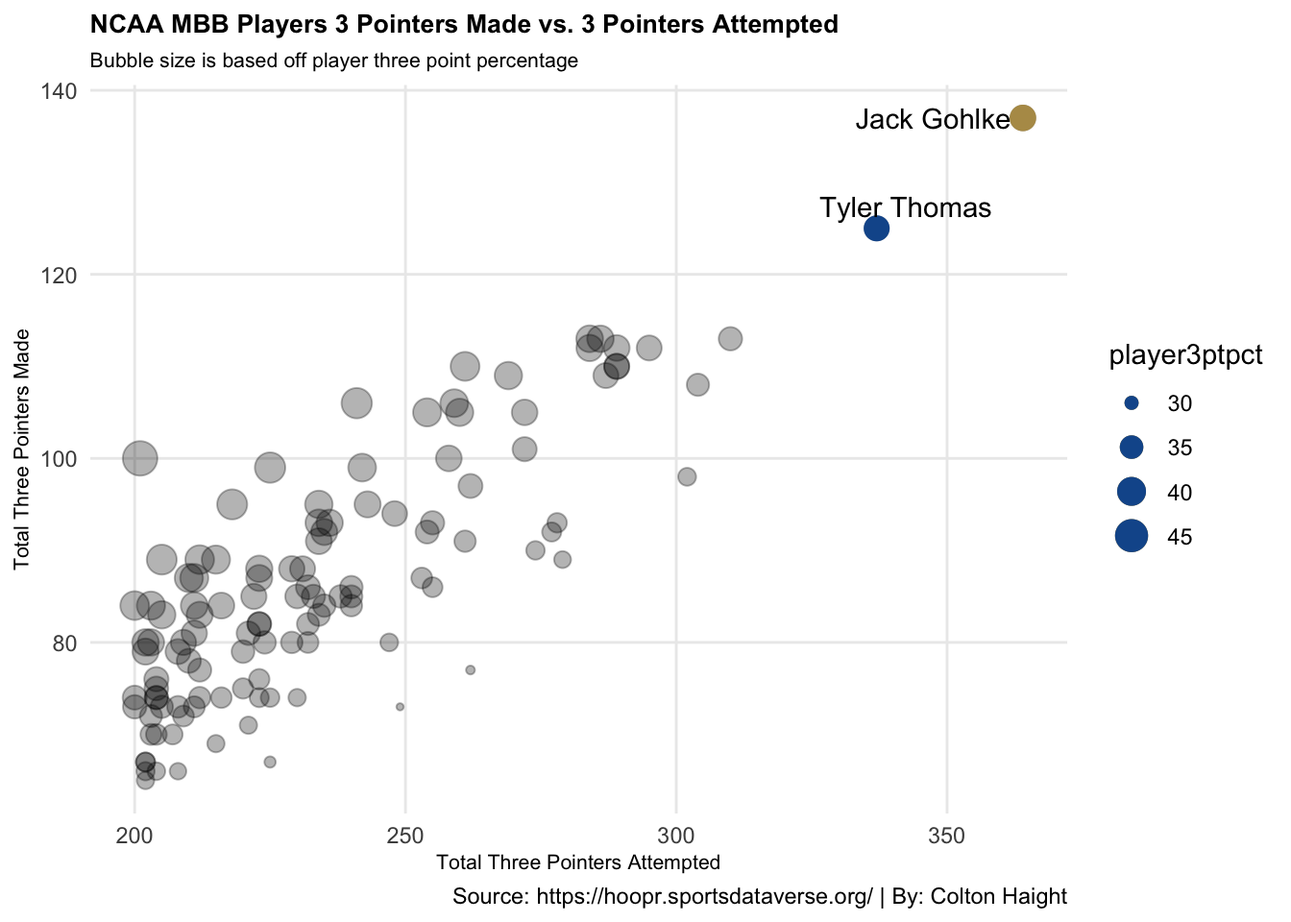
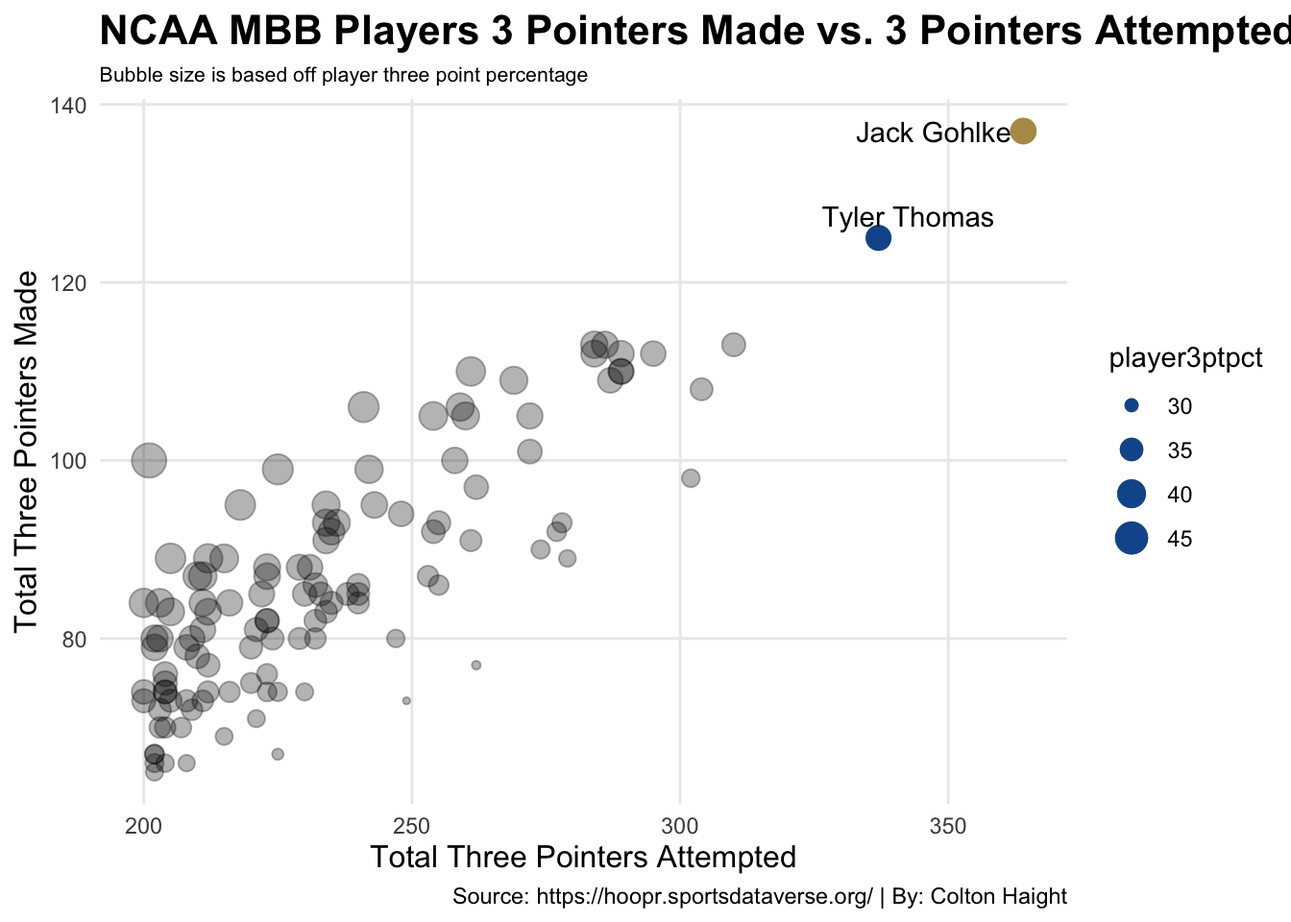
changed index

diff --git a/posts/best-3pt-shooter-mcbb-2024/index.html b/posts/best-3pt-shooter-mcbb-2024/index.html
@@ -194,65 +194,44 @@ pre > code.sourceCode > span > a:first-child::before { text-decoration: underlin
 <details class="code-fold">
 <summary>Code</summary>
 <div class="sourceCode cell-code" id="cb1"><pre class="sourceCode r code-with-copy"><code class="sourceCode r"><span id="cb1-1"><a href="#cb1-1" aria-hidden="true" tabindex="-1"></a><span class="fu">library</span>(hoopR)</span>
-<span id="cb1-2"><a href="#cb1-2" aria-hidden="true" tabindex="-1"></a><span class="fu">library</span>(tidyverse)</span></code><button title="Copy to Clipboard" class="code-copy-button"><i class="bi"></i></button></pre></div>
-</details>
-<div class="cell-output cell-output-stderr">
-<pre><code>── Attaching core tidyverse packages ──────────────────────── tidyverse 2.0.0 ──
-✔ dplyr     1.1.4     ✔ readr     2.1.5
-✔ forcats   1.0.0     ✔ stringr   1.5.1
-✔ ggplot2   3.5.1     ✔ tibble    3.2.1
-✔ lubridate 1.9.3     ✔ tidyr     1.3.1
-✔ purrr     1.0.2     
-── Conflicts ────────────────────────────────────────── tidyverse_conflicts() ──
-✖ dplyr::filter() masks stats::filter()
-✖ dplyr::lag()    masks stats::lag()
-ℹ Use the conflicted package (&lt;http://conflicted.r-lib.org/&gt;) to force all conflicts to become errors</code></pre>
-</div>
-<details class="code-fold">
-<summary>Code</summary>
-<div class="sourceCode cell-code" id="cb3"><pre class="sourceCode r code-with-copy"><code class="sourceCode r"><span id="cb3-1"><a href="#cb3-1" aria-hidden="true" tabindex="-1"></a><span class="fu">library</span>(ggrepel)</span>
-<span id="cb3-2"><a href="#cb3-2" aria-hidden="true" tabindex="-1"></a></span>
-<span id="cb3-3"><a href="#cb3-3" aria-hidden="true" tabindex="-1"></a>mbb_player_stats <span class="ot">&lt;-</span> <span class="fu">load_mbb_player_box</span>(<span class="at">seasons =</span> <span class="dv">2024</span>)</span>
-<span id="cb3-4"><a href="#cb3-4" aria-hidden="true" tabindex="-1"></a></span>
-<span id="cb3-5"><a href="#cb3-5" aria-hidden="true" tabindex="-1"></a>mbb3pt <span class="ot">&lt;-</span> mbb_player_stats<span class="sc">|&gt;</span></span>
-<span id="cb3-6"><a href="#cb3-6" aria-hidden="true" tabindex="-1"></a>  <span class="fu">group_by</span>(athlete_display_name, team_short_display_name)<span class="sc">|&gt;</span></span>
-<span id="cb3-7"><a href="#cb3-7" aria-hidden="true" tabindex="-1"></a>  <span class="fu">summarize</span>(</span>
-<span id="cb3-8"><a href="#cb3-8" aria-hidden="true" tabindex="-1"></a>    <span class="at">total3ptmade =</span> <span class="fu">sum</span>(three_point_field_goals_made),</span>
-<span id="cb3-9"><a href="#cb3-9" aria-hidden="true" tabindex="-1"></a>    <span class="at">total3ptattempted =</span> <span class="fu">sum</span>(three_point_field_goals_attempted),</span>
-<span id="cb3-10"><a href="#cb3-10" aria-hidden="true" tabindex="-1"></a>    <span class="at">totalpts =</span> <span class="fu">sum</span>(points)</span>
-<span id="cb3-11"><a href="#cb3-11" aria-hidden="true" tabindex="-1"></a>  )<span class="sc">|&gt;</span></span>
-<span id="cb3-12"><a href="#cb3-12" aria-hidden="true" tabindex="-1"></a>  <span class="fu">mutate</span>(</span>
-<span id="cb3-13"><a href="#cb3-13" aria-hidden="true" tabindex="-1"></a>    <span class="at">player3ptpct =</span> (total3ptmade <span class="sc">/</span> total3ptattempted) <span class="sc">*</span> <span class="dv">100</span>,</span>
-<span id="cb3-14"><a href="#cb3-14" aria-hidden="true" tabindex="-1"></a>    <span class="at">pointsoff3pts =</span> total3ptmade <span class="sc">*</span> <span class="dv">3</span>,</span>
-<span id="cb3-15"><a href="#cb3-15" aria-hidden="true" tabindex="-1"></a>    <span class="at">pointsnot3pts =</span> totalpts <span class="sc">-</span> pointsoff3pts</span>
-<span id="cb3-16"><a href="#cb3-16" aria-hidden="true" tabindex="-1"></a>  )</span></code><button title="Copy to Clipboard" class="code-copy-button"><i class="bi"></i></button></pre></div>
-</details>
-<div class="cell-output cell-output-stderr">
-<pre><code>`summarise()` has grouped output by 'athlete_display_name'. You can override
-using the `.groups` argument.</code></pre>
-</div>
-<details class="code-fold">
-<summary>Code</summary>
-<div class="sourceCode cell-code" id="cb5"><pre class="sourceCode r code-with-copy"><code class="sourceCode r"><span id="cb5-1"><a href="#cb5-1" aria-hidden="true" tabindex="-1"></a>mbb3pt199 <span class="ot">&lt;-</span> mbb3pt<span class="sc">|&gt;</span></span>
-<span id="cb5-2"><a href="#cb5-2" aria-hidden="true" tabindex="-1"></a>  <span class="fu">filter</span>(total3ptattempted <span class="sc">&gt;</span> <span class="dv">199</span>)</span>
-<span id="cb5-3"><a href="#cb5-3" aria-hidden="true" tabindex="-1"></a></span>
-<span id="cb5-4"><a href="#cb5-4" aria-hidden="true" tabindex="-1"></a><span class="fu">ggplot</span>() <span class="sc">+</span> </span>
-<span id="cb5-5"><a href="#cb5-5" aria-hidden="true" tabindex="-1"></a>  <span class="fu">geom_point</span>(<span class="at">data =</span> mbb3pt199, <span class="fu">aes</span>(<span class="at">x =</span> total3ptattempted</span>
-<span id="cb5-6"><a href="#cb5-6" aria-hidden="true" tabindex="-1"></a>, <span class="at">y =</span> total3ptmade)) <span class="sc">+</span> </span>
-<span id="cb5-7"><a href="#cb5-7" aria-hidden="true" tabindex="-1"></a>  <span class="fu">labs</span>(</span>
-<span id="cb5-8"><a href="#cb5-8" aria-hidden="true" tabindex="-1"></a>    <span class="at">x =</span> <span class="st">"Total Three Pointers Attempted"</span>,</span>
-<span id="cb5-9"><a href="#cb5-9" aria-hidden="true" tabindex="-1"></a>    <span class="at">y =</span> <span class="st">"Total Three Pointers Made"</span>,</span>
-<span id="cb5-10"><a href="#cb5-10" aria-hidden="true" tabindex="-1"></a>    <span class="at">title =</span> <span class="st">"NCAA MBB Players 3 Pointers Made vs. 3 Pointers Attempted"</span>,</span>
-<span id="cb5-11"><a href="#cb5-11" aria-hidden="true" tabindex="-1"></a>    <span class="at">subtitle =</span> <span class="st">"Some major outliers"</span>,</span>
-<span id="cb5-12"><a href="#cb5-12" aria-hidden="true" tabindex="-1"></a>    <span class="at">caption =</span> <span class="st">"Source: https://hoopr.sportsdataverse.org/ | By: Colton Haight"</span></span>
-<span id="cb5-13"><a href="#cb5-13" aria-hidden="true" tabindex="-1"></a>  ) <span class="sc">+</span></span>
-<span id="cb5-14"><a href="#cb5-14" aria-hidden="true" tabindex="-1"></a>  <span class="fu">theme_minimal</span>() <span class="sc">+</span></span>
-<span id="cb5-15"><a href="#cb5-15" aria-hidden="true" tabindex="-1"></a>  <span class="fu">theme</span>(</span>
-<span id="cb5-16"><a href="#cb5-16" aria-hidden="true" tabindex="-1"></a>    <span class="at">plot.title =</span> <span class="fu">element_text</span>(<span class="at">size =</span> <span class="dv">10</span>, <span class="at">face =</span> <span class="st">"bold"</span>),</span>
-<span id="cb5-17"><a href="#cb5-17" aria-hidden="true" tabindex="-1"></a>    <span class="at">axis.title =</span> <span class="fu">element_text</span>(<span class="at">size =</span> <span class="dv">8</span>), </span>
-<span id="cb5-18"><a href="#cb5-18" aria-hidden="true" tabindex="-1"></a>    <span class="at">plot.subtitle =</span> <span class="fu">element_text</span>(<span class="at">size =</span> <span class="dv">8</span>), </span>
-<span id="cb5-19"><a href="#cb5-19" aria-hidden="true" tabindex="-1"></a>    <span class="at">panel.grid.minor =</span> <span class="fu">element_blank</span>()</span>
-<span id="cb5-20"><a href="#cb5-20" aria-hidden="true" tabindex="-1"></a>  )</span></code><button title="Copy to Clipboard" class="code-copy-button"><i class="bi"></i></button></pre></div>
+<span id="cb1-2"><a href="#cb1-2" aria-hidden="true" tabindex="-1"></a><span class="fu">library</span>(tidyverse)</span>
+<span id="cb1-3"><a href="#cb1-3" aria-hidden="true" tabindex="-1"></a><span class="fu">library</span>(ggrepel)</span>
+<span id="cb1-4"><a href="#cb1-4" aria-hidden="true" tabindex="-1"></a></span>
+<span id="cb1-5"><a href="#cb1-5" aria-hidden="true" tabindex="-1"></a>mbb_player_stats <span class="ot">&lt;-</span> <span class="fu">load_mbb_player_box</span>(<span class="at">seasons =</span> <span class="dv">2024</span>)</span>
+<span id="cb1-6"><a href="#cb1-6" aria-hidden="true" tabindex="-1"></a></span>
+<span id="cb1-7"><a href="#cb1-7" aria-hidden="true" tabindex="-1"></a>mbb3pt <span class="ot">&lt;-</span> mbb_player_stats<span class="sc">|&gt;</span></span>
+<span id="cb1-8"><a href="#cb1-8" aria-hidden="true" tabindex="-1"></a>  <span class="fu">group_by</span>(athlete_display_name, team_short_display_name)<span class="sc">|&gt;</span></span>
+<span id="cb1-9"><a href="#cb1-9" aria-hidden="true" tabindex="-1"></a>  <span class="fu">summarize</span>(</span>
+<span id="cb1-10"><a href="#cb1-10" aria-hidden="true" tabindex="-1"></a>    <span class="at">total3ptmade =</span> <span class="fu">sum</span>(three_point_field_goals_made),</span>
+<span id="cb1-11"><a href="#cb1-11" aria-hidden="true" tabindex="-1"></a>    <span class="at">total3ptattempted =</span> <span class="fu">sum</span>(three_point_field_goals_attempted),</span>
+<span id="cb1-12"><a href="#cb1-12" aria-hidden="true" tabindex="-1"></a>    <span class="at">totalpts =</span> <span class="fu">sum</span>(points)</span>
+<span id="cb1-13"><a href="#cb1-13" aria-hidden="true" tabindex="-1"></a>  )<span class="sc">|&gt;</span></span>
+<span id="cb1-14"><a href="#cb1-14" aria-hidden="true" tabindex="-1"></a>  <span class="fu">mutate</span>(</span>
+<span id="cb1-15"><a href="#cb1-15" aria-hidden="true" tabindex="-1"></a>    <span class="at">player3ptpct =</span> (total3ptmade <span class="sc">/</span> total3ptattempted) <span class="sc">*</span> <span class="dv">100</span>,</span>
+<span id="cb1-16"><a href="#cb1-16" aria-hidden="true" tabindex="-1"></a>    <span class="at">pointsoff3pts =</span> total3ptmade <span class="sc">*</span> <span class="dv">3</span>,</span>
+<span id="cb1-17"><a href="#cb1-17" aria-hidden="true" tabindex="-1"></a>    <span class="at">pointsnot3pts =</span> totalpts <span class="sc">-</span> pointsoff3pts</span>
+<span id="cb1-18"><a href="#cb1-18" aria-hidden="true" tabindex="-1"></a>  )</span>
+<span id="cb1-19"><a href="#cb1-19" aria-hidden="true" tabindex="-1"></a></span>
+<span id="cb1-20"><a href="#cb1-20" aria-hidden="true" tabindex="-1"></a>mbb3pt199 <span class="ot">&lt;-</span> mbb3pt<span class="sc">|&gt;</span></span>
+<span id="cb1-21"><a href="#cb1-21" aria-hidden="true" tabindex="-1"></a>  <span class="fu">filter</span>(total3ptattempted <span class="sc">&gt;</span> <span class="dv">199</span>)</span>
+<span id="cb1-22"><a href="#cb1-22" aria-hidden="true" tabindex="-1"></a></span>
+<span id="cb1-23"><a href="#cb1-23" aria-hidden="true" tabindex="-1"></a><span class="fu">ggplot</span>() <span class="sc">+</span> </span>
+<span id="cb1-24"><a href="#cb1-24" aria-hidden="true" tabindex="-1"></a>  <span class="fu">geom_point</span>(<span class="at">data =</span> mbb3pt199, <span class="fu">aes</span>(<span class="at">x =</span> total3ptattempted</span>
+<span id="cb1-25"><a href="#cb1-25" aria-hidden="true" tabindex="-1"></a>, <span class="at">y =</span> total3ptmade)) <span class="sc">+</span> </span>
+<span id="cb1-26"><a href="#cb1-26" aria-hidden="true" tabindex="-1"></a>  <span class="fu">labs</span>(</span>
+<span id="cb1-27"><a href="#cb1-27" aria-hidden="true" tabindex="-1"></a>    <span class="at">x =</span> <span class="st">"Total Three Pointers Attempted"</span>,</span>
+<span id="cb1-28"><a href="#cb1-28" aria-hidden="true" tabindex="-1"></a>    <span class="at">y =</span> <span class="st">"Total Three Pointers Made"</span>,</span>
+<span id="cb1-29"><a href="#cb1-29" aria-hidden="true" tabindex="-1"></a>    <span class="at">title =</span> <span class="st">"NCAA MBB Players 3 Pointers Made vs. 3 Pointers Attempted"</span>,</span>
+<span id="cb1-30"><a href="#cb1-30" aria-hidden="true" tabindex="-1"></a>    <span class="at">subtitle =</span> <span class="st">"Some major outliers"</span>,</span>
+<span id="cb1-31"><a href="#cb1-31" aria-hidden="true" tabindex="-1"></a>    <span class="at">caption =</span> <span class="st">"Source: https://hoopr.sportsdataverse.org/ | By: Colton Haight"</span></span>
+<span id="cb1-32"><a href="#cb1-32" aria-hidden="true" tabindex="-1"></a>  ) <span class="sc">+</span></span>
+<span id="cb1-33"><a href="#cb1-33" aria-hidden="true" tabindex="-1"></a>  <span class="fu">theme_minimal</span>() <span class="sc">+</span></span>
+<span id="cb1-34"><a href="#cb1-34" aria-hidden="true" tabindex="-1"></a>  <span class="fu">theme</span>(</span>
+<span id="cb1-35"><a href="#cb1-35" aria-hidden="true" tabindex="-1"></a>    <span class="at">plot.title =</span> <span class="fu">element_text</span>(<span class="at">size =</span> <span class="dv">16</span>, <span class="at">face =</span> <span class="st">"bold"</span>),</span>
+<span id="cb1-36"><a href="#cb1-36" aria-hidden="true" tabindex="-1"></a>    <span class="at">axis.title =</span> <span class="fu">element_text</span>(<span class="at">size =</span> <span class="dv">12</span>), </span>
+<span id="cb1-37"><a href="#cb1-37" aria-hidden="true" tabindex="-1"></a>    <span class="at">plot.subtitle =</span> <span class="fu">element_text</span>(<span class="at">size =</span> <span class="dv">8</span>), </span>
+<span id="cb1-38"><a href="#cb1-38" aria-hidden="true" tabindex="-1"></a>    <span class="at">panel.grid.minor =</span> <span class="fu">element_blank</span>()</span>
+<span id="cb1-39"><a href="#cb1-39" aria-hidden="true" tabindex="-1"></a>  )</span></code><button title="Copy to Clipboard" class="code-copy-button"><i class="bi"></i></button></pre></div>
 </details>
 <div class="cell-output-display">
 <div>
@@ -263,29 +242,29 @@ using the `.groups` argument.</code></pre>
 </div>
 <details class="code-fold">
 <summary>Code</summary>
-<div class="sourceCode cell-code" id="cb6"><pre class="sourceCode r code-with-copy"><code class="sourceCode r"><span id="cb6-1"><a href="#cb6-1" aria-hidden="true" tabindex="-1"></a>jg3pt <span class="ot">&lt;-</span> mbb3pt199<span class="sc">|&gt;</span> <span class="fu">filter</span>(athlete_display_name <span class="sc">==</span> <span class="st">"Jack Gohlke"</span>)</span>
-<span id="cb6-2"><a href="#cb6-2" aria-hidden="true" tabindex="-1"></a>tt3pt <span class="ot">&lt;-</span> mbb3pt199<span class="sc">|&gt;</span> <span class="fu">filter</span>(athlete_display_name <span class="sc">==</span> <span class="st">"Tyler Thomas"</span>)</span>
-<span id="cb6-3"><a href="#cb6-3" aria-hidden="true" tabindex="-1"></a></span>
-<span id="cb6-4"><a href="#cb6-4" aria-hidden="true" tabindex="-1"></a><span class="fu">ggplot</span>() <span class="sc">+</span> </span>
-<span id="cb6-5"><a href="#cb6-5" aria-hidden="true" tabindex="-1"></a>  <span class="fu">geom_point</span>(<span class="at">data =</span>  mbb3pt199, <span class="fu">aes</span>(<span class="at">x =</span> total3ptattempted, <span class="at">y =</span> total3ptmade, <span class="at">size =</span> player3ptpct), <span class="at">alpha =</span> .<span class="dv">3</span>) <span class="sc">+</span> </span>
-<span id="cb6-6"><a href="#cb6-6" aria-hidden="true" tabindex="-1"></a>  <span class="fu">geom_point</span>(<span class="at">data =</span>  jg3pt, <span class="fu">aes</span>(<span class="at">x =</span> total3ptattempted, <span class="at">y =</span> total3ptmade, <span class="at">size =</span> player3ptpct), <span class="at">color =</span> <span class="st">"#B59A57"</span>) <span class="sc">+</span></span>
-<span id="cb6-7"><a href="#cb6-7" aria-hidden="true" tabindex="-1"></a>  <span class="fu">geom_point</span>(<span class="at">data =</span>  tt3pt, <span class="fu">aes</span>(<span class="at">x =</span> total3ptattempted, <span class="at">y =</span> total3ptmade, <span class="at">size =</span> player3ptpct), <span class="at">color =</span> <span class="st">"#13579A"</span>) <span class="sc">+</span></span>
-<span id="cb6-8"><a href="#cb6-8" aria-hidden="true" tabindex="-1"></a>  <span class="fu">geom_text_repel</span>(<span class="at">data =</span> jg3pt, <span class="fu">aes</span>(<span class="at">x =</span> total3ptattempted, <span class="at">y =</span> total3ptmade, <span class="at">label =</span> athlete_display_name)) <span class="sc">+</span></span>
-<span id="cb6-9"><a href="#cb6-9" aria-hidden="true" tabindex="-1"></a>  <span class="fu">geom_text_repel</span>(<span class="at">data =</span> tt3pt, <span class="fu">aes</span>(<span class="at">x =</span> total3ptattempted, <span class="at">y =</span> total3ptmade, <span class="at">label =</span> athlete_display_name)) <span class="sc">+</span></span>
-<span id="cb6-10"><a href="#cb6-10" aria-hidden="true" tabindex="-1"></a>  <span class="fu">labs</span>(</span>
-<span id="cb6-11"><a href="#cb6-11" aria-hidden="true" tabindex="-1"></a>    <span class="at">x =</span> <span class="st">"Total Three Pointers Attempted"</span>,</span>
-<span id="cb6-12"><a href="#cb6-12" aria-hidden="true" tabindex="-1"></a>    <span class="at">y =</span> <span class="st">"Total Three Pointers Made"</span>,</span>
-<span id="cb6-13"><a href="#cb6-13" aria-hidden="true" tabindex="-1"></a>    <span class="at">title =</span> <span class="st">"NCAA MBB Players 3 Pointers Made vs. 3 Pointers Attempted"</span>,</span>
-<span id="cb6-14"><a href="#cb6-14" aria-hidden="true" tabindex="-1"></a>    <span class="at">subtitle =</span> <span class="st">"Bubble size is based off player three point percentage"</span>,</span>
-<span id="cb6-15"><a href="#cb6-15" aria-hidden="true" tabindex="-1"></a>    <span class="at">caption =</span> <span class="st">"Source: https://hoopr.sportsdataverse.org/ | By: Colton Haight"</span></span>
-<span id="cb6-16"><a href="#cb6-16" aria-hidden="true" tabindex="-1"></a>  ) <span class="sc">+</span></span>
-<span id="cb6-17"><a href="#cb6-17" aria-hidden="true" tabindex="-1"></a>  <span class="fu">theme_minimal</span>() <span class="sc">+</span></span>
-<span id="cb6-18"><a href="#cb6-18" aria-hidden="true" tabindex="-1"></a>  <span class="fu">theme</span>(</span>
-<span id="cb6-19"><a href="#cb6-19" aria-hidden="true" tabindex="-1"></a>    <span class="at">plot.title =</span> <span class="fu">element_text</span>(<span class="at">size =</span> <span class="dv">10</span>, <span class="at">face =</span> <span class="st">"bold"</span>),</span>
-<span id="cb6-20"><a href="#cb6-20" aria-hidden="true" tabindex="-1"></a>    <span class="at">axis.title =</span> <span class="fu">element_text</span>(<span class="at">size =</span> <span class="dv">8</span>), </span>
-<span id="cb6-21"><a href="#cb6-21" aria-hidden="true" tabindex="-1"></a>    <span class="at">plot.subtitle =</span> <span class="fu">element_text</span>(<span class="at">size =</span> <span class="dv">8</span>), </span>
-<span id="cb6-22"><a href="#cb6-22" aria-hidden="true" tabindex="-1"></a>    <span class="at">panel.grid.minor =</span> <span class="fu">element_blank</span>()</span>
-<span id="cb6-23"><a href="#cb6-23" aria-hidden="true" tabindex="-1"></a>)</span></code><button title="Copy to Clipboard" class="code-copy-button"><i class="bi"></i></button></pre></div>
+<div class="sourceCode cell-code" id="cb2"><pre class="sourceCode r code-with-copy"><code class="sourceCode r"><span id="cb2-1"><a href="#cb2-1" aria-hidden="true" tabindex="-1"></a>jg3pt <span class="ot">&lt;-</span> mbb3pt199<span class="sc">|&gt;</span> <span class="fu">filter</span>(athlete_display_name <span class="sc">==</span> <span class="st">"Jack Gohlke"</span>)</span>
+<span id="cb2-2"><a href="#cb2-2" aria-hidden="true" tabindex="-1"></a>tt3pt <span class="ot">&lt;-</span> mbb3pt199<span class="sc">|&gt;</span> <span class="fu">filter</span>(athlete_display_name <span class="sc">==</span> <span class="st">"Tyler Thomas"</span>)</span>
+<span id="cb2-3"><a href="#cb2-3" aria-hidden="true" tabindex="-1"></a></span>
+<span id="cb2-4"><a href="#cb2-4" aria-hidden="true" tabindex="-1"></a><span class="fu">ggplot</span>() <span class="sc">+</span> </span>
+<span id="cb2-5"><a href="#cb2-5" aria-hidden="true" tabindex="-1"></a>  <span class="fu">geom_point</span>(<span class="at">data =</span>  mbb3pt199, <span class="fu">aes</span>(<span class="at">x =</span> total3ptattempted, <span class="at">y =</span> total3ptmade, <span class="at">size =</span> player3ptpct), <span class="at">alpha =</span> .<span class="dv">3</span>) <span class="sc">+</span> </span>
+<span id="cb2-6"><a href="#cb2-6" aria-hidden="true" tabindex="-1"></a>  <span class="fu">geom_point</span>(<span class="at">data =</span>  jg3pt, <span class="fu">aes</span>(<span class="at">x =</span> total3ptattempted, <span class="at">y =</span> total3ptmade, <span class="at">size =</span> player3ptpct), <span class="at">color =</span> <span class="st">"#B59A57"</span>) <span class="sc">+</span></span>
+<span id="cb2-7"><a href="#cb2-7" aria-hidden="true" tabindex="-1"></a>  <span class="fu">geom_point</span>(<span class="at">data =</span>  tt3pt, <span class="fu">aes</span>(<span class="at">x =</span> total3ptattempted, <span class="at">y =</span> total3ptmade, <span class="at">size =</span> player3ptpct), <span class="at">color =</span> <span class="st">"#13579A"</span>) <span class="sc">+</span></span>
+<span id="cb2-8"><a href="#cb2-8" aria-hidden="true" tabindex="-1"></a>  <span class="fu">geom_text_repel</span>(<span class="at">data =</span> jg3pt, <span class="fu">aes</span>(<span class="at">x =</span> total3ptattempted, <span class="at">y =</span> total3ptmade, <span class="at">label =</span> athlete_display_name)) <span class="sc">+</span></span>
+<span id="cb2-9"><a href="#cb2-9" aria-hidden="true" tabindex="-1"></a>  <span class="fu">geom_text_repel</span>(<span class="at">data =</span> tt3pt, <span class="fu">aes</span>(<span class="at">x =</span> total3ptattempted, <span class="at">y =</span> total3ptmade, <span class="at">label =</span> athlete_display_name)) <span class="sc">+</span></span>
+<span id="cb2-10"><a href="#cb2-10" aria-hidden="true" tabindex="-1"></a>  <span class="fu">labs</span>(</span>
+<span id="cb2-11"><a href="#cb2-11" aria-hidden="true" tabindex="-1"></a>    <span class="at">x =</span> <span class="st">"Total Three Pointers Attempted"</span>,</span>
+<span id="cb2-12"><a href="#cb2-12" aria-hidden="true" tabindex="-1"></a>    <span class="at">y =</span> <span class="st">"Total Three Pointers Made"</span>,</span>
+<span id="cb2-13"><a href="#cb2-13" aria-hidden="true" tabindex="-1"></a>    <span class="at">title =</span> <span class="st">"NCAA MBB Players 3 Pointers Made vs. 3 Pointers Attempted"</span>,</span>
+<span id="cb2-14"><a href="#cb2-14" aria-hidden="true" tabindex="-1"></a>    <span class="at">subtitle =</span> <span class="st">"Bubble size is based off player three point percentage"</span>,</span>
+<span id="cb2-15"><a href="#cb2-15" aria-hidden="true" tabindex="-1"></a>    <span class="at">caption =</span> <span class="st">"Source: https://hoopr.sportsdataverse.org/ | By: Colton Haight"</span></span>
+<span id="cb2-16"><a href="#cb2-16" aria-hidden="true" tabindex="-1"></a>  ) <span class="sc">+</span></span>
+<span id="cb2-17"><a href="#cb2-17" aria-hidden="true" tabindex="-1"></a>  <span class="fu">theme_minimal</span>() <span class="sc">+</span></span>
+<span id="cb2-18"><a href="#cb2-18" aria-hidden="true" tabindex="-1"></a>  <span class="fu">theme</span>(</span>
+<span id="cb2-19"><a href="#cb2-19" aria-hidden="true" tabindex="-1"></a>    <span class="at">plot.title =</span> <span class="fu">element_text</span>(<span class="at">size =</span> <span class="dv">16</span>, <span class="at">face =</span> <span class="st">"bold"</span>),</span>
+<span id="cb2-20"><a href="#cb2-20" aria-hidden="true" tabindex="-1"></a>    <span class="at">axis.title =</span> <span class="fu">element_text</span>(<span class="at">size =</span> <span class="dv">12</span>), </span>
+<span id="cb2-21"><a href="#cb2-21" aria-hidden="true" tabindex="-1"></a>    <span class="at">plot.subtitle =</span> <span class="fu">element_text</span>(<span class="at">size =</span> <span class="dv">8</span>), </span>
+<span id="cb2-22"><a href="#cb2-22" aria-hidden="true" tabindex="-1"></a>    <span class="at">panel.grid.minor =</span> <span class="fu">element_blank</span>()</span>
+<span id="cb2-23"><a href="#cb2-23" aria-hidden="true" tabindex="-1"></a>)</span></code><button title="Copy to Clipboard" class="code-copy-button"><i class="bi"></i></button></pre></div>
 </details>
 <div class="cell-output-display">
 <div>
@@ -296,37 +275,37 @@ using the `.groups` argument.</code></pre>
 </div>
 <details class="code-fold">
 <summary>Code</summary>
-<div class="sourceCode cell-code" id="cb7"><pre class="sourceCode r code-with-copy"><code class="sourceCode r"><span id="cb7-1"><a href="#cb7-1" aria-hidden="true" tabindex="-1"></a>mbb3pt40pct <span class="ot">&lt;-</span> mbb3pt199<span class="sc">|&gt;</span></span>
-<span id="cb7-2"><a href="#cb7-2" aria-hidden="true" tabindex="-1"></a>  <span class="fu">filter</span>(player3ptpct <span class="sc">&gt;</span> <span class="fl">39.9</span>)<span class="sc">|&gt;</span></span>
-<span id="cb7-3"><a href="#cb7-3" aria-hidden="true" tabindex="-1"></a>  <span class="fu">arrange</span>(<span class="fu">desc</span>(player3ptpct))</span>
-<span id="cb7-4"><a href="#cb7-4" aria-hidden="true" tabindex="-1"></a></span>
-<span id="cb7-5"><a href="#cb7-5" aria-hidden="true" tabindex="-1"></a>kb3pt <span class="ot">&lt;-</span> mbb3pt40pct <span class="sc">|&gt;</span> <span class="fu">filter</span>(athlete_display_name <span class="sc">==</span> <span class="st">"Koby Brea"</span>)</span>
-<span id="cb7-6"><a href="#cb7-6" aria-hidden="true" tabindex="-1"></a>ms3pt <span class="ot">&lt;-</span> mbb3pt40pct <span class="sc">|&gt;</span> <span class="fu">filter</span>(athlete_display_name <span class="sc">==</span> <span class="st">"Mark Sears"</span>)</span>
-<span id="cb7-7"><a href="#cb7-7" aria-hidden="true" tabindex="-1"></a>cs3pt <span class="ot">&lt;-</span> mbb3pt40pct <span class="sc">|&gt;</span> <span class="fu">filter</span>(athlete_display_name <span class="sc">==</span> <span class="st">"Cam Spencer"</span>)</span>
-<span id="cb7-8"><a href="#cb7-8" aria-hidden="true" tabindex="-1"></a></span>
-<span id="cb7-9"><a href="#cb7-9" aria-hidden="true" tabindex="-1"></a></span>
-<span id="cb7-10"><a href="#cb7-10" aria-hidden="true" tabindex="-1"></a><span class="fu">ggplot</span>() <span class="sc">+</span> </span>
-<span id="cb7-11"><a href="#cb7-11" aria-hidden="true" tabindex="-1"></a>  <span class="fu">geom_point</span>(<span class="at">data =</span>  mbb3pt40pct, <span class="fu">aes</span>(<span class="at">x =</span> totalpts, <span class="at">y =</span> player3ptpct, <span class="at">size =</span> total3ptmade), <span class="at">alpha =</span> .<span class="dv">3</span>) <span class="sc">+</span> </span>
-<span id="cb7-12"><a href="#cb7-12" aria-hidden="true" tabindex="-1"></a>  <span class="fu">geom_point</span>(<span class="at">data =</span>  kb3pt, <span class="fu">aes</span>(<span class="at">x =</span> totalpts, <span class="at">y =</span> player3ptpct, <span class="at">size =</span> total3ptmade), <span class="at">color =</span> <span class="st">"#F80228"</span>) <span class="sc">+</span></span>
-<span id="cb7-13"><a href="#cb7-13" aria-hidden="true" tabindex="-1"></a>  <span class="fu">geom_point</span>(<span class="at">data =</span>  ms3pt, <span class="fu">aes</span>(<span class="at">x =</span> totalpts, <span class="at">y =</span> player3ptpct, <span class="at">size =</span> total3ptmade), <span class="at">color =</span> <span class="st">"#9E1B32"</span>) <span class="sc">+</span></span>
-<span id="cb7-14"><a href="#cb7-14" aria-hidden="true" tabindex="-1"></a>  <span class="fu">geom_point</span>(<span class="at">data =</span>  cs3pt, <span class="fu">aes</span>(<span class="at">x =</span> totalpts, <span class="at">y =</span> player3ptpct, <span class="at">size =</span> total3ptmade), <span class="at">color =</span> <span class="st">"#000E2F"</span>) <span class="sc">+</span></span>
-<span id="cb7-15"><a href="#cb7-15" aria-hidden="true" tabindex="-1"></a>  <span class="fu">geom_text_repel</span>(<span class="at">data =</span> kb3pt, <span class="fu">aes</span>(<span class="at">x =</span> totalpts, <span class="at">y =</span> player3ptpct, <span class="at">label =</span> athlete_display_name)) <span class="sc">+</span></span>
-<span id="cb7-16"><a href="#cb7-16" aria-hidden="true" tabindex="-1"></a>  <span class="fu">geom_text_repel</span>(<span class="at">data =</span> ms3pt, <span class="fu">aes</span>(<span class="at">x =</span> totalpts, <span class="at">y =</span> player3ptpct, <span class="at">label =</span> athlete_display_name)) <span class="sc">+</span></span>
-<span id="cb7-17"><a href="#cb7-17" aria-hidden="true" tabindex="-1"></a>  <span class="fu">geom_text_repel</span>(<span class="at">data =</span> cs3pt, <span class="fu">aes</span>(<span class="at">x =</span> totalpts, <span class="at">y =</span> player3ptpct, <span class="at">label =</span> athlete_display_name)) <span class="sc">+</span></span>
-<span id="cb7-18"><a href="#cb7-18" aria-hidden="true" tabindex="-1"></a>  <span class="fu">labs</span>(</span>
-<span id="cb7-19"><a href="#cb7-19" aria-hidden="true" tabindex="-1"></a>    <span class="at">x =</span> <span class="st">"Player Total Points"</span>,</span>
-<span id="cb7-20"><a href="#cb7-20" aria-hidden="true" tabindex="-1"></a>    <span class="at">y =</span> <span class="st">"Player Three Point Percentage"</span>,</span>
-<span id="cb7-21"><a href="#cb7-21" aria-hidden="true" tabindex="-1"></a>    <span class="at">title =</span> <span class="st">"NCAA MBB Players 3 Point Percentage vs. Total Points Scored"</span>,</span>
-<span id="cb7-22"><a href="#cb7-22" aria-hidden="true" tabindex="-1"></a>    <span class="at">subtitle =</span> <span class="st">"Bubble size is based off player total three pointers made"</span>,</span>
-<span id="cb7-23"><a href="#cb7-23" aria-hidden="true" tabindex="-1"></a>    <span class="at">caption =</span> <span class="st">"Source: https://hoopr.sportsdataverse.org/ | By: Colton Haight"</span></span>
-<span id="cb7-24"><a href="#cb7-24" aria-hidden="true" tabindex="-1"></a>  ) <span class="sc">+</span></span>
-<span id="cb7-25"><a href="#cb7-25" aria-hidden="true" tabindex="-1"></a>  <span class="fu">theme_minimal</span>() <span class="sc">+</span></span>
-<span id="cb7-26"><a href="#cb7-26" aria-hidden="true" tabindex="-1"></a>  <span class="fu">theme</span>(</span>
-<span id="cb7-27"><a href="#cb7-27" aria-hidden="true" tabindex="-1"></a>    <span class="at">plot.title =</span> <span class="fu">element_text</span>(<span class="at">size =</span> <span class="dv">10</span>, <span class="at">face =</span> <span class="st">"bold"</span>),</span>
-<span id="cb7-28"><a href="#cb7-28" aria-hidden="true" tabindex="-1"></a>    <span class="at">axis.title =</span> <span class="fu">element_text</span>(<span class="at">size =</span> <span class="dv">8</span>), </span>
-<span id="cb7-29"><a href="#cb7-29" aria-hidden="true" tabindex="-1"></a>    <span class="at">plot.subtitle =</span> <span class="fu">element_text</span>(<span class="at">size =</span> <span class="dv">8</span>), </span>
-<span id="cb7-30"><a href="#cb7-30" aria-hidden="true" tabindex="-1"></a>    <span class="at">panel.grid.minor =</span> <span class="fu">element_blank</span>()</span>
-<span id="cb7-31"><a href="#cb7-31" aria-hidden="true" tabindex="-1"></a>)</span></code><button title="Copy to Clipboard" class="code-copy-button"><i class="bi"></i></button></pre></div>
+<div class="sourceCode cell-code" id="cb3"><pre class="sourceCode r code-with-copy"><code class="sourceCode r"><span id="cb3-1"><a href="#cb3-1" aria-hidden="true" tabindex="-1"></a>mbb3pt40pct <span class="ot">&lt;-</span> mbb3pt199<span class="sc">|&gt;</span></span>
+<span id="cb3-2"><a href="#cb3-2" aria-hidden="true" tabindex="-1"></a>  <span class="fu">filter</span>(player3ptpct <span class="sc">&gt;</span> <span class="fl">39.9</span>)<span class="sc">|&gt;</span></span>
+<span id="cb3-3"><a href="#cb3-3" aria-hidden="true" tabindex="-1"></a>  <span class="fu">arrange</span>(<span class="fu">desc</span>(player3ptpct))</span>
+<span id="cb3-4"><a href="#cb3-4" aria-hidden="true" tabindex="-1"></a></span>
+<span id="cb3-5"><a href="#cb3-5" aria-hidden="true" tabindex="-1"></a>kb3pt <span class="ot">&lt;-</span> mbb3pt40pct <span class="sc">|&gt;</span> <span class="fu">filter</span>(athlete_display_name <span class="sc">==</span> <span class="st">"Koby Brea"</span>)</span>
+<span id="cb3-6"><a href="#cb3-6" aria-hidden="true" tabindex="-1"></a>ms3pt <span class="ot">&lt;-</span> mbb3pt40pct <span class="sc">|&gt;</span> <span class="fu">filter</span>(athlete_display_name <span class="sc">==</span> <span class="st">"Mark Sears"</span>)</span>
+<span id="cb3-7"><a href="#cb3-7" aria-hidden="true" tabindex="-1"></a>cs3pt <span class="ot">&lt;-</span> mbb3pt40pct <span class="sc">|&gt;</span> <span class="fu">filter</span>(athlete_display_name <span class="sc">==</span> <span class="st">"Cam Spencer"</span>)</span>
+<span id="cb3-8"><a href="#cb3-8" aria-hidden="true" tabindex="-1"></a></span>
+<span id="cb3-9"><a href="#cb3-9" aria-hidden="true" tabindex="-1"></a></span>
+<span id="cb3-10"><a href="#cb3-10" aria-hidden="true" tabindex="-1"></a><span class="fu">ggplot</span>() <span class="sc">+</span> </span>
+<span id="cb3-11"><a href="#cb3-11" aria-hidden="true" tabindex="-1"></a>  <span class="fu">geom_point</span>(<span class="at">data =</span>  mbb3pt40pct, <span class="fu">aes</span>(<span class="at">x =</span> totalpts, <span class="at">y =</span> player3ptpct, <span class="at">size =</span> total3ptmade), <span class="at">alpha =</span> .<span class="dv">3</span>) <span class="sc">+</span> </span>
+<span id="cb3-12"><a href="#cb3-12" aria-hidden="true" tabindex="-1"></a>  <span class="fu">geom_point</span>(<span class="at">data =</span>  kb3pt, <span class="fu">aes</span>(<span class="at">x =</span> totalpts, <span class="at">y =</span> player3ptpct, <span class="at">size =</span> total3ptmade), <span class="at">color =</span> <span class="st">"#F80228"</span>) <span class="sc">+</span></span>
+<span id="cb3-13"><a href="#cb3-13" aria-hidden="true" tabindex="-1"></a>  <span class="fu">geom_point</span>(<span class="at">data =</span>  ms3pt, <span class="fu">aes</span>(<span class="at">x =</span> totalpts, <span class="at">y =</span> player3ptpct, <span class="at">size =</span> total3ptmade), <span class="at">color =</span> <span class="st">"#9E1B32"</span>) <span class="sc">+</span></span>
+<span id="cb3-14"><a href="#cb3-14" aria-hidden="true" tabindex="-1"></a>  <span class="fu">geom_point</span>(<span class="at">data =</span>  cs3pt, <span class="fu">aes</span>(<span class="at">x =</span> totalpts, <span class="at">y =</span> player3ptpct, <span class="at">size =</span> total3ptmade), <span class="at">color =</span> <span class="st">"#000E2F"</span>) <span class="sc">+</span></span>
+<span id="cb3-15"><a href="#cb3-15" aria-hidden="true" tabindex="-1"></a>  <span class="fu">geom_text_repel</span>(<span class="at">data =</span> kb3pt, <span class="fu">aes</span>(<span class="at">x =</span> totalpts, <span class="at">y =</span> player3ptpct, <span class="at">label =</span> athlete_display_name)) <span class="sc">+</span></span>
+<span id="cb3-16"><a href="#cb3-16" aria-hidden="true" tabindex="-1"></a>  <span class="fu">geom_text_repel</span>(<span class="at">data =</span> ms3pt, <span class="fu">aes</span>(<span class="at">x =</span> totalpts, <span class="at">y =</span> player3ptpct, <span class="at">label =</span> athlete_display_name)) <span class="sc">+</span></span>
+<span id="cb3-17"><a href="#cb3-17" aria-hidden="true" tabindex="-1"></a>  <span class="fu">geom_text_repel</span>(<span class="at">data =</span> cs3pt, <span class="fu">aes</span>(<span class="at">x =</span> totalpts, <span class="at">y =</span> player3ptpct, <span class="at">label =</span> athlete_display_name)) <span class="sc">+</span></span>
+<span id="cb3-18"><a href="#cb3-18" aria-hidden="true" tabindex="-1"></a>  <span class="fu">labs</span>(</span>
+<span id="cb3-19"><a href="#cb3-19" aria-hidden="true" tabindex="-1"></a>    <span class="at">x =</span> <span class="st">"Player Total Points"</span>,</span>
+<span id="cb3-20"><a href="#cb3-20" aria-hidden="true" tabindex="-1"></a>    <span class="at">y =</span> <span class="st">"Player Three Point Percentage"</span>,</span>
+<span id="cb3-21"><a href="#cb3-21" aria-hidden="true" tabindex="-1"></a>    <span class="at">title =</span> <span class="st">"NCAA MBB Players 3 Point Percentage vs. Total Points Scored"</span>,</span>
+<span id="cb3-22"><a href="#cb3-22" aria-hidden="true" tabindex="-1"></a>    <span class="at">subtitle =</span> <span class="st">"Bubble size is based off player total three pointers made"</span>,</span>
+<span id="cb3-23"><a href="#cb3-23" aria-hidden="true" tabindex="-1"></a>    <span class="at">caption =</span> <span class="st">"Source: https://hoopr.sportsdataverse.org/ | By: Colton Haight"</span></span>
+<span id="cb3-24"><a href="#cb3-24" aria-hidden="true" tabindex="-1"></a>  ) <span class="sc">+</span></span>
+<span id="cb3-25"><a href="#cb3-25" aria-hidden="true" tabindex="-1"></a>  <span class="fu">theme_minimal</span>() <span class="sc">+</span></span>
+<span id="cb3-26"><a href="#cb3-26" aria-hidden="true" tabindex="-1"></a>  <span class="fu">theme</span>(</span>
+<span id="cb3-27"><a href="#cb3-27" aria-hidden="true" tabindex="-1"></a>    <span class="at">plot.title =</span> <span class="fu">element_text</span>(<span class="at">size =</span> <span class="dv">16</span>, <span class="at">face =</span> <span class="st">"bold"</span>),</span>
+<span id="cb3-28"><a href="#cb3-28" aria-hidden="true" tabindex="-1"></a>    <span class="at">axis.title =</span> <span class="fu">element_text</span>(<span class="at">size =</span> <span class="dv">12</span>), </span>
+<span id="cb3-29"><a href="#cb3-29" aria-hidden="true" tabindex="-1"></a>    <span class="at">plot.subtitle =</span> <span class="fu">element_text</span>(<span class="at">size =</span> <span class="dv">8</span>), </span>
+<span id="cb3-30"><a href="#cb3-30" aria-hidden="true" tabindex="-1"></a>    <span class="at">panel.grid.minor =</span> <span class="fu">element_blank</span>()</span>
+<span id="cb3-31"><a href="#cb3-31" aria-hidden="true" tabindex="-1"></a>)</span></code><button title="Copy to Clipboard" class="code-copy-button"><i class="bi"></i></button></pre></div>
 </details>
 <div class="cell-output-display">
 <div>
@@ -337,20 +316,20 @@ using the `.groups` argument.</code></pre>
 </div>
 <details class="code-fold">
 <summary>Code</summary>
-<div class="sourceCode cell-code" id="cb8"><pre class="sourceCode r code-with-copy"><code class="sourceCode r"><span id="cb8-1"><a href="#cb8-1" aria-hidden="true" tabindex="-1"></a>mbb3madetop10 <span class="ot">&lt;-</span> mbb3pt199<span class="sc">|&gt;</span></span>
-<span id="cb8-2"><a href="#cb8-2" aria-hidden="true" tabindex="-1"></a>  <span class="fu">filter</span>(total3ptmade <span class="sc">&gt;</span> <span class="dv">109</span>)<span class="sc">|&gt;</span></span>
-<span id="cb8-3"><a href="#cb8-3" aria-hidden="true" tabindex="-1"></a>  <span class="fu">arrange</span>(<span class="fu">desc</span>(total3ptmade))</span>
-<span id="cb8-4"><a href="#cb8-4" aria-hidden="true" tabindex="-1"></a>mbb3ptlong <span class="ot">&lt;-</span> mbb3madetop10 <span class="sc">|&gt;</span></span>
-<span id="cb8-5"><a href="#cb8-5" aria-hidden="true" tabindex="-1"></a>  <span class="fu">select</span>(<span class="sc">-</span>totalpts) <span class="sc">|&gt;</span></span>
-<span id="cb8-6"><a href="#cb8-6" aria-hidden="true" tabindex="-1"></a>  <span class="fu">pivot_longer</span>(</span>
-<span id="cb8-7"><a href="#cb8-7" aria-hidden="true" tabindex="-1"></a>    <span class="at">cols =</span> <span class="fu">ends_with</span>(<span class="st">"pts"</span>),</span>
-<span id="cb8-8"><a href="#cb8-8" aria-hidden="true" tabindex="-1"></a>    <span class="at">names_to =</span> <span class="st">"TypeOfPoint"</span>,</span>
-<span id="cb8-9"><a href="#cb8-9" aria-hidden="true" tabindex="-1"></a>    <span class="at">values_to =</span> <span class="st">"points"</span></span>
-<span id="cb8-10"><a href="#cb8-10" aria-hidden="true" tabindex="-1"></a>  )</span>
-<span id="cb8-11"><a href="#cb8-11" aria-hidden="true" tabindex="-1"></a></span>
-<span id="cb8-12"><a href="#cb8-12" aria-hidden="true" tabindex="-1"></a><span class="fu">ggplot</span>(<span class="at">data =</span> mbb3madetop10, <span class="fu">aes</span>(<span class="at">x =</span> <span class="fu">reorder</span>(athlete_display_name, pointsoff3pts), <span class="at">weight =</span> pointsoff3pts)) <span class="sc">+</span></span>
-<span id="cb8-13"><a href="#cb8-13" aria-hidden="true" tabindex="-1"></a>  <span class="fu">geom_bar</span>() <span class="sc">+</span> </span>
-<span id="cb8-14"><a href="#cb8-14" aria-hidden="true" tabindex="-1"></a>  <span class="fu">coord_flip</span>()</span></code><button title="Copy to Clipboard" class="code-copy-button"><i class="bi"></i></button></pre></div>
+<div class="sourceCode cell-code" id="cb4"><pre class="sourceCode r code-with-copy"><code class="sourceCode r"><span id="cb4-1"><a href="#cb4-1" aria-hidden="true" tabindex="-1"></a>mbb3madetop10 <span class="ot">&lt;-</span> mbb3pt199<span class="sc">|&gt;</span></span>
+<span id="cb4-2"><a href="#cb4-2" aria-hidden="true" tabindex="-1"></a>  <span class="fu">filter</span>(total3ptmade <span class="sc">&gt;</span> <span class="dv">109</span>)<span class="sc">|&gt;</span></span>
+<span id="cb4-3"><a href="#cb4-3" aria-hidden="true" tabindex="-1"></a>  <span class="fu">arrange</span>(<span class="fu">desc</span>(total3ptmade))</span>
+<span id="cb4-4"><a href="#cb4-4" aria-hidden="true" tabindex="-1"></a>mbb3ptlong <span class="ot">&lt;-</span> mbb3madetop10 <span class="sc">|&gt;</span></span>
+<span id="cb4-5"><a href="#cb4-5" aria-hidden="true" tabindex="-1"></a>  <span class="fu">select</span>(<span class="sc">-</span>totalpts) <span class="sc">|&gt;</span></span>
+<span id="cb4-6"><a href="#cb4-6" aria-hidden="true" tabindex="-1"></a>  <span class="fu">pivot_longer</span>(</span>
+<span id="cb4-7"><a href="#cb4-7" aria-hidden="true" tabindex="-1"></a>    <span class="at">cols =</span> <span class="fu">ends_with</span>(<span class="st">"pts"</span>),</span>
+<span id="cb4-8"><a href="#cb4-8" aria-hidden="true" tabindex="-1"></a>    <span class="at">names_to =</span> <span class="st">"TypeOfPoint"</span>,</span>
+<span id="cb4-9"><a href="#cb4-9" aria-hidden="true" tabindex="-1"></a>    <span class="at">values_to =</span> <span class="st">"points"</span></span>
+<span id="cb4-10"><a href="#cb4-10" aria-hidden="true" tabindex="-1"></a>  )</span>
+<span id="cb4-11"><a href="#cb4-11" aria-hidden="true" tabindex="-1"></a></span>
+<span id="cb4-12"><a href="#cb4-12" aria-hidden="true" tabindex="-1"></a><span class="fu">ggplot</span>(<span class="at">data =</span> mbb3madetop10, <span class="fu">aes</span>(<span class="at">x =</span> <span class="fu">reorder</span>(athlete_display_name, pointsoff3pts), <span class="at">weight =</span> pointsoff3pts)) <span class="sc">+</span></span>
+<span id="cb4-13"><a href="#cb4-13" aria-hidden="true" tabindex="-1"></a>  <span class="fu">geom_bar</span>() <span class="sc">+</span> </span>
+<span id="cb4-14"><a href="#cb4-14" aria-hidden="true" tabindex="-1"></a>  <span class="fu">coord_flip</span>()</span></code><button title="Copy to Clipboard" class="code-copy-button"><i class="bi"></i></button></pre></div>
 </details>
 <div class="cell-output-display">
 <div>
@@ -361,9 +340,9 @@ using the `.groups` argument.</code></pre>
 </div>
 <details class="code-fold">
 <summary>Code</summary>
-<div class="sourceCode cell-code" id="cb9"><pre class="sourceCode r code-with-copy"><code class="sourceCode r"><span id="cb9-1"><a href="#cb9-1" aria-hidden="true" tabindex="-1"></a><span class="fu">ggplot</span>(<span class="at">data =</span> mbb3ptlong, <span class="fu">aes</span>(<span class="at">x =</span> <span class="fu">reorder</span>(athlete_display_name, total3ptmade), <span class="at">weight =</span> points, <span class="at">fill =</span> TypeOfPoint)) <span class="sc">+</span></span>
-<span id="cb9-2"><a href="#cb9-2" aria-hidden="true" tabindex="-1"></a>  <span class="fu">geom_bar</span>() <span class="sc">+</span></span>
-<span id="cb9-3"><a href="#cb9-3" aria-hidden="true" tabindex="-1"></a>  <span class="fu">coord_flip</span>()</span></code><button title="Copy to Clipboard" class="code-copy-button"><i class="bi"></i></button></pre></div>
+<div class="sourceCode cell-code" id="cb5"><pre class="sourceCode r code-with-copy"><code class="sourceCode r"><span id="cb5-1"><a href="#cb5-1" aria-hidden="true" tabindex="-1"></a><span class="fu">ggplot</span>(<span class="at">data =</span> mbb3ptlong, <span class="fu">aes</span>(<span class="at">x =</span> <span class="fu">reorder</span>(athlete_display_name, total3ptmade), <span class="at">weight =</span> points, <span class="at">fill =</span> TypeOfPoint)) <span class="sc">+</span></span>
+<span id="cb5-2"><a href="#cb5-2" aria-hidden="true" tabindex="-1"></a>  <span class="fu">geom_bar</span>() <span class="sc">+</span></span>
+<span id="cb5-3"><a href="#cb5-3" aria-hidden="true" tabindex="-1"></a>  <span class="fu">coord_flip</span>()</span></code><button title="Copy to Clipboard" class="code-copy-button"><i class="bi"></i></button></pre></div>
 </details>
 <div class="cell-output-display">
 <div>

diff --git a/index.html b/index.html
@@ -205,7 +205,7 @@ window.Quarto = {
 
 <div class="quarto-listing quarto-listing-container-default" id="listing-listing">
 <div class="list quarto-listing-default">
-<div class="quarto-post image-right" data-index="0" data-categories="TkNBQSxCYXNrZXRiYWw=" data-listing-date-sort="1730786400000" data-listing-file-modified-sort="1731023684288" data-listing-date-modified-sort="NaN" data-listing-reading-time-sort="4" data-listing-word-count-sort="702">
+<div class="quarto-post image-right" data-index="0" data-categories="TkNBQSxCYXNrZXRiYWw=" data-listing-date-sort="1730786400000" data-listing-file-modified-sort="1731024291923" data-listing-date-modified-sort="NaN" data-listing-reading-time-sort="4" data-listing-word-count-sort="706">
 <div class="thumbnail">
 <p><a href="./posts/best-3pt-shooter-mcbb-2024/index.html" class="no-external"></a></p><a href="./posts/best-3pt-shooter-mcbb-2024/index.html" class="no-external">
 <p><img loading="lazy" src="./posts/best-3pt-shooter-mcbb-2024/image.png" class="thumbnail-image"></p>
